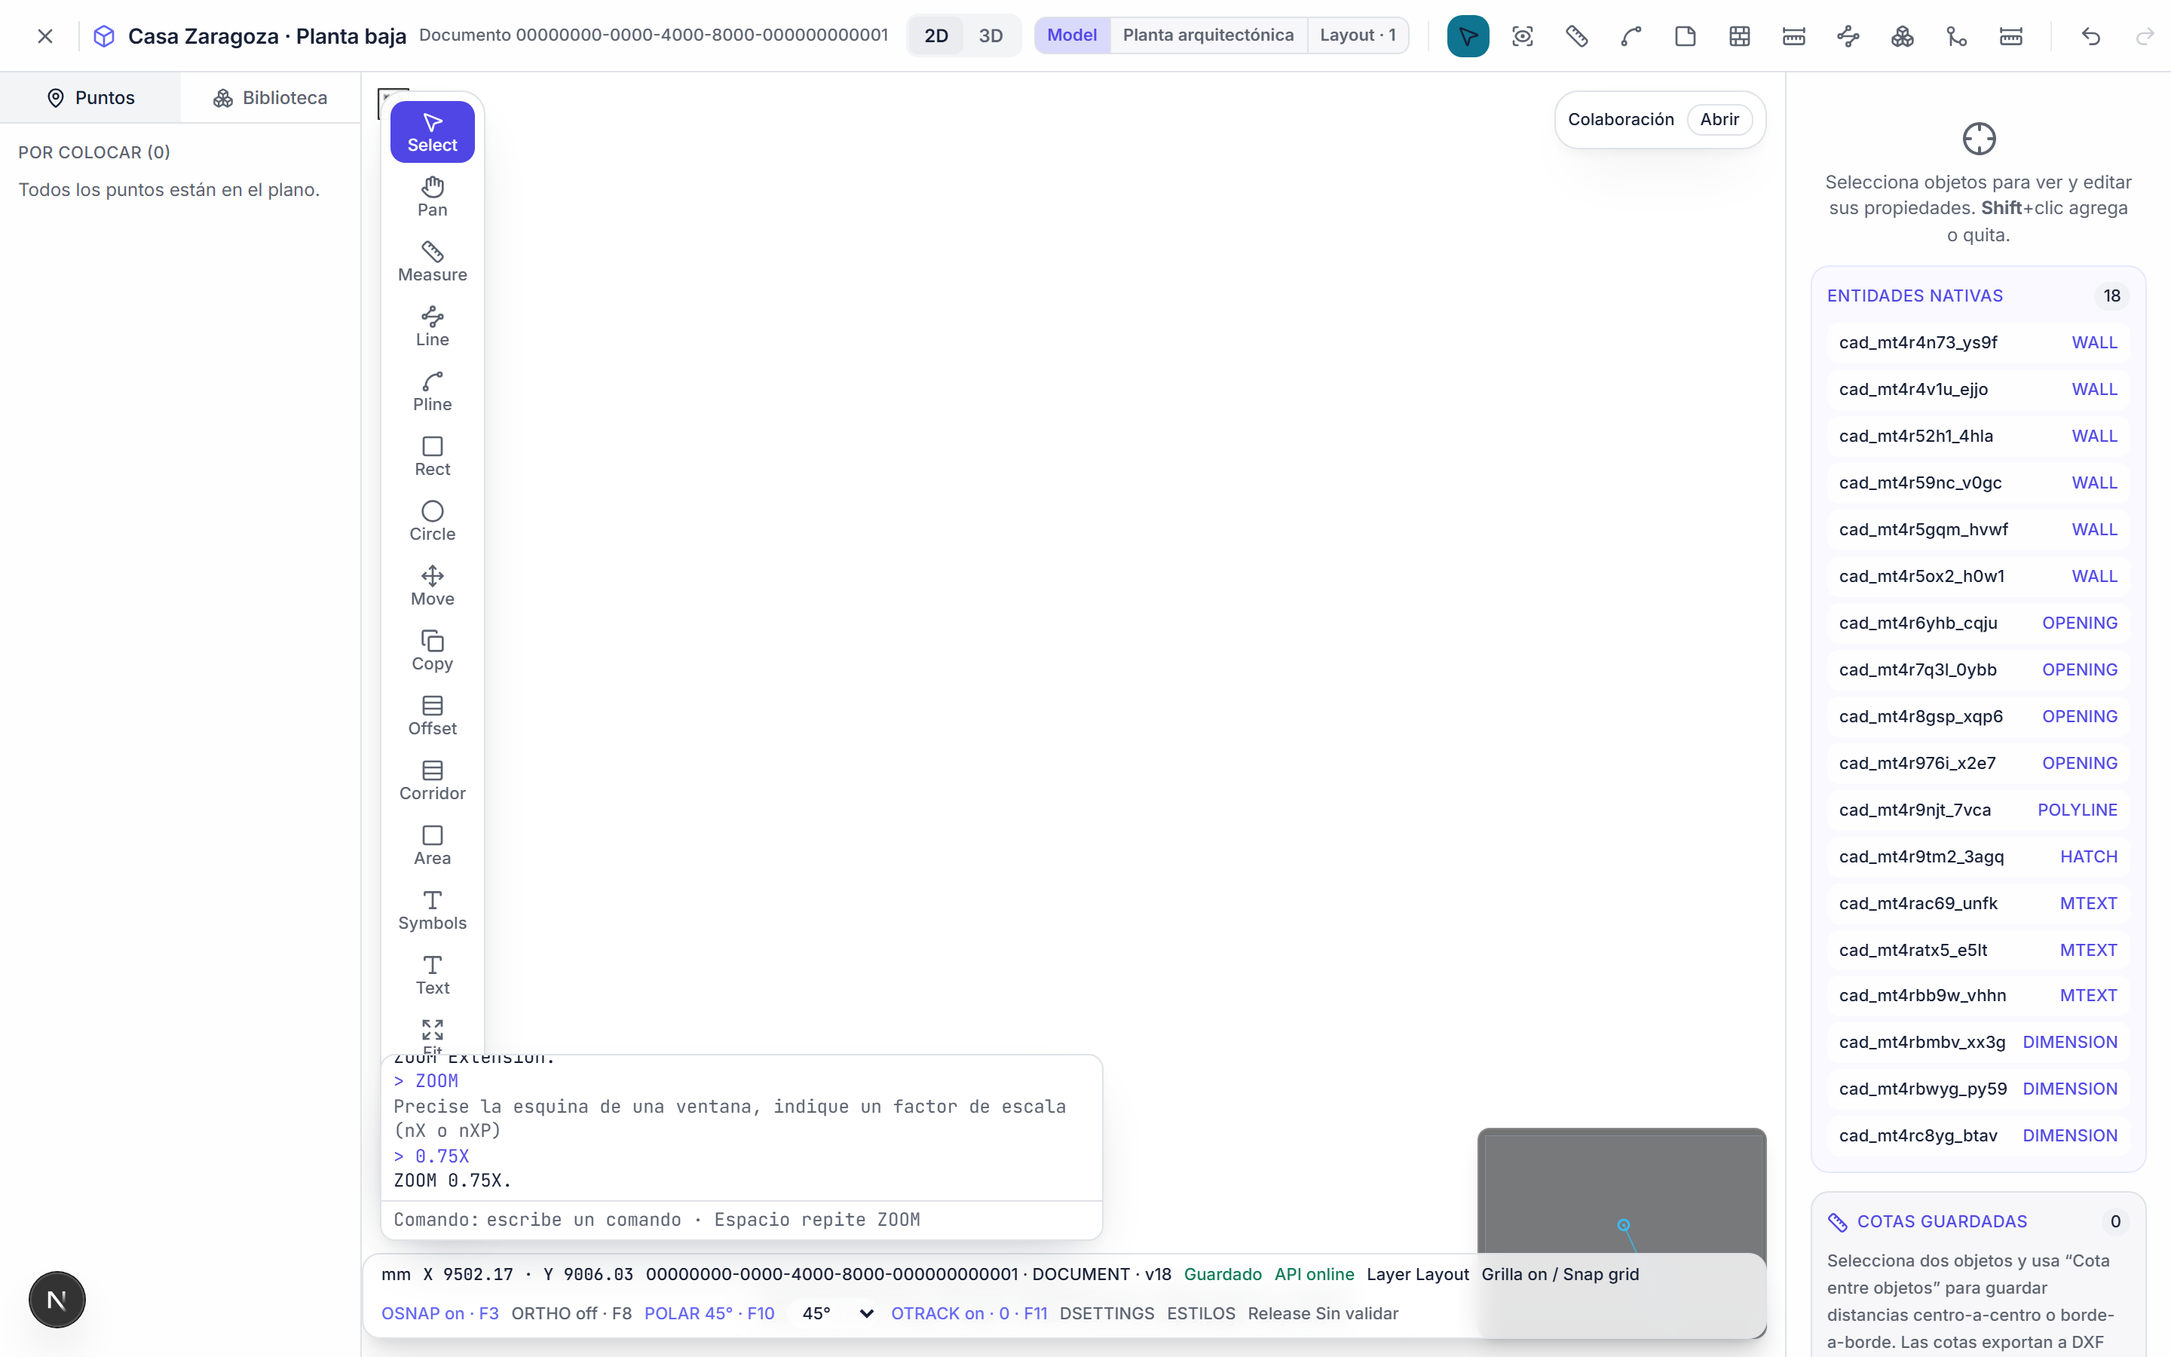
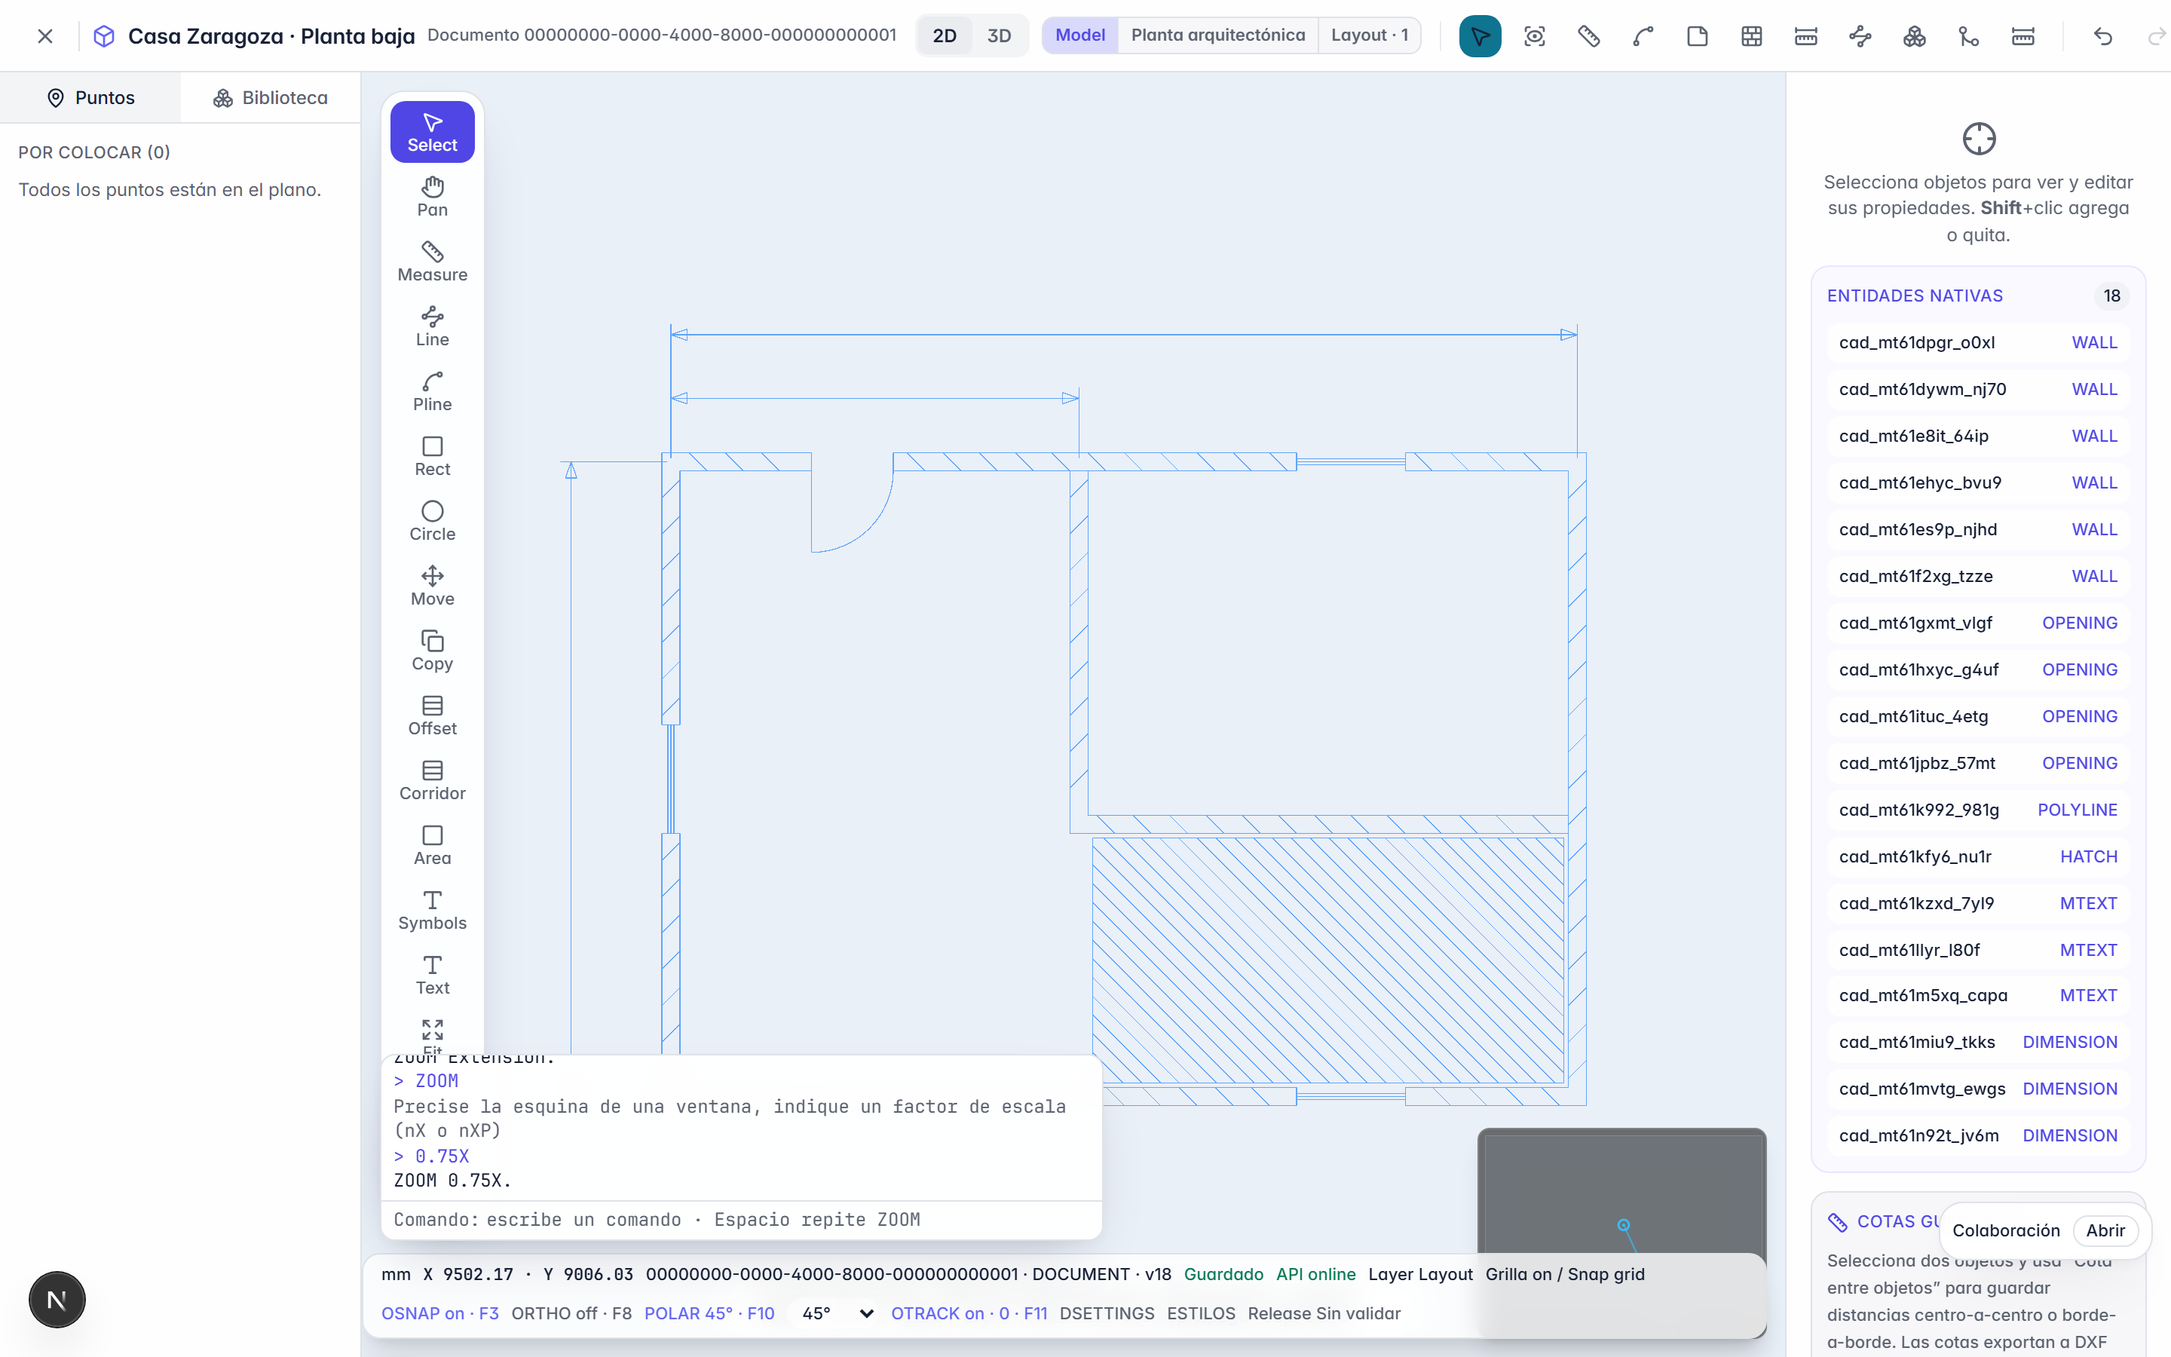
@ La verdad medida: 85 de 87 goldens, el embudo público en verde, y el informe de la campaña de pulido
OLA FINAL. Barrido completo con el árbol quieto (e2e/golden + e2e/public, 180
casos, 1,1 h): 172 verdes, 7 rojos, 1 saltado. Los 7, clasificados uno a uno:

· 46-cad-pointer-engine (×2) y 20-cad-multiple-viewports (firefox) son
  ANTERIORES a esta campaña, confirmado con corrida de control sobre 9835240.
· Los otros cuatro —10:156, 15, 16 y 17— eran RUIDO DE MÁQUINA: tres fallan con
  «Guardando…» en vez de «Guardado», o sea que el guardado no asentó en 15 s en
  una corrida de 1,1 h con dos trabajadores y un servidor de desarrollo encima.
  Reejecutados en aislamiento: 10 de 10 verdes en 3,1 min.

La cifra honesta es 85 de 87 goldens, desde 81/87, y los dos que faltan no son
de esta campaña. e2e/public: 6/6, desde 0/6.

Capturas regeneradas con el cajetín ya sin el campo muerto y el plano de ejemplo
al esquema 10.

F.2: la discrepancia 186/200 vs 191/200 quedó SIN OBJETO, y se dice con
precisión en vez de tacharla: la campaña de cimientos sustituyó la rúbrica
entera y ahora hay dos números con otro denominador (HOY 154/175, DESTINO
189/220). De dónde venía la diferencia sí quedó comprobado: los cinco puntos
estaban enteros en Import/export DWG, 2/8 committeado contra 7/8 calculado.

El informe dice también lo que NO se hizo: la OLA 4 entera (rendimiento) no se
empezó, y 5.1, 5.4, 5.5, 6.1, 6.2, 6.3 y 3.4 quedan abiertas. Y deja los tres
errores propios de la campaña con su medida, porque el método importa más que
el resultado.

diff --git a/docs/execution/INFORME_CAMPANA_PULIDO_20260822.md b/docs/execution/INFORME_CAMPANA_PULIDO_20260822.md
@@ -1,0 +1,211 @@
+# Informe — Campaña autónoma de pulido
+
+**Fecha:** 22–23 de agosto de 2026 · **Base de arranque:** `fc9ba23` ·
+**Bitácora completa:** [`CAMPANA_PULIDO_20260822.md`](CAMPANA_PULIDO_20260822.md)
+
+La cola pedía cerrar la deuda de las tres campañas anteriores «para que no quede
+una sola pieza del producto de la que haya que dar explicaciones al enseñarlo».
+Este informe dice qué se cerró, qué no, y con qué números.
+
+---
+
+## 1. Lo que se cerró
+
+### OLA 0 — la portada dice la verdad
+
+Las seis capturas de `public/product/` se habían tomado horas ANTES de que la
+campaña de identidad purgara el vocabulario del planificador de plantas, y eran
+exactamente las que la portada enseñaba. Se regeneraron, y al mirarlas una por
+una aparecieron cuatro defectos más de los denunciados:
+
+| Captura | Enseñaba | Enseña |
+| --- | --- | --- |
+| `estudio-dark` / `-light` | «AXOS-CAD-STUDIO» de título, herramientas `Aisle`/`Zone`/`Equipment`, el globo de Colaboración encima del panel de propiedades, la línea de comandos pisando la barra de estado, y un dibujo de 4 muros + 2 cotas | «Casa Zaragoza · Planta baja», `Corridor`/`Area`/`Symbols`, nada superpuesto, y una planta de **18 entidades**: 6 muros que resuelven sus esquinas, puerta con barrido, 3 ventanas alojadas, sombreado asociativo, 3 rótulos y 3 cotas |
+| `paleta-propiedades` | la línea de comandos con «La paleta de propiedades no está montada en este espacio de trabajo» **en rojo** | la paleta abierta con Ctrl+1 y una entidad designada |
+| `espacio-papel` | el espacio MODELO con el menú de `LAYOUT` abierto | la lámina A1 de verdad, con muros hachurados, huecos, rótulos, cotas y cajetín |
+
+Y un guardián nuevo lee el texto RENDERIZADO antes de cada disparo: si el
+vocabulario del producto muerto vuelve, no hay foto. Importa la lista del gate
+de identidad en vez de copiarla, así que crece con él.
+
+### OLA 1 — los seis goldens heredados, cerrados
+
+De **81/87 a 85/87**. Cuatro causas, y cuatro defectos de PRODUCTO arreglados —
+ninguno se cerró relajando una aserción:
+
+1. **La capa de comentarios nunca recibió un clic.** `setPlacing` concatenaba
+   `pointer-events-auto` sobre una base que ya llevaba `pointer-events-none`; en
+   el atributo `class` el orden no decide, decide la hoja de Tailwind, y ahí gana
+   `none`. Anclar un comentario sobre el plano **no funcionó jamás**, y ninguna
+   aserción de dominio podía verlo.
+2. **El muelle de colaboración se comía las pestañas de la biblioteca.** El
+   golden 21 llevaba meses en rojo con el mensaje exacto escrito en el log y
+   nadie lo había leído.
+3. **El encabezado de la consola LISP mezclaba dos poblaciones** —rutinas del
+   estudio y comandos totales, con los de fábrica dentro— contradiciendo a su
+   propia lista.
+4. **La holgura de la barra de estado subía la columna entera**, y con ella los
+   botones del acompañante de los primeros cinco minutos, que aterrizaban sobre
+   el plano.
+
+Tres aserciones de esquema se actualizaron contra `CAD_DOCUMENT_SCHEMA` en vez
+de contra un número, con la evidencia de que las subidas fueron deliberadas,
+documentadas y aditivas.
+
+### OLA 2 — el ERP fuera de la suite
+
+`e2e/fixtures/mock-backend.ts` era un ERP/MES completo en miniatura: 30 rutas
+—órdenes de trabajo con takt objetivo, surtido a línea PENDING/STAGED/SHORTAGE,
+reabasto, terminal de operador con andon, no conformidades, inventario—. Era el
+pendiente número uno de la campaña de identidad y sobrevivió a ella porque 61
+specs lo importan.
+
+El cruce salió inequívoco y se puede repetir: **ninguna de las 30 rutas aparece
+en ninguna spec, ni en el código de producto**. Las 61 importan un solo símbolo.
+**739 → 85 líneas.** Lo que quedaba hacía tres cosas: interceptar el origen
+entero, aplicar la comprobación de identidad real, y contestar vacío pero con
+éxito.
+
+### OLA 3 — las cotas dibujan lo que prometen
+
+DIMSTYLE tenía el núcleo de ~30 DIMVARs y le faltaba el último tramo: la ENTIDAD
+no llevaba encima lo que el render necesita leer, así que **el plano salía igual
+con cualquier norma de acotación**. Esquema 10, siete campos opcionales-ausentes:
+DIMTXT, DIMTXSTY, DIMCLRT, DIMCLRD, DIMCLRE, DIMTAD y DIMJUST. Se hornean, llegan
+al render —la altura del rótulo dejó de derivarse de `arrowSize × 0,55`— y viajan
+por DXF con ida y vuelta.
+
+### Defecto grave encontrado de paso: los muros no se imprimían
+
+Fotografiando la lámina para la portada salió que el sombreado, los rótulos y las
+cotas aparecían en la hoja **y la casa no**. `renderEntity()` de `paper-space.ts`
+es una escalera de ramas escrita cuando el documento iba por el esquema 3, y todo
+lo demás caía en un `return []` silencioso. El compilador lo confirma sin lugar a
+dudas: en ese punto el tipo estrechado era `CadSchema4Entity | CadSchema5Entity |
+CadWallEntity | CadOpeningEntity` — **doce tipos**, incluidas las dos entidades
+BIM que son la bandera del producto, desaparecían del PDF sin una advertencia.
+
+### El cajetín y el embudo en el teléfono
+
+- «Flujo total» imprimía «---» en cada lámina publicada: `flowLen` no tenía un
+  solo productor. Fuera. Los contadores del planificador de plantas se emiten
+  sólo cuando tienen algo que contar.
+- **No había forma de iniciar sesión desde un teléfono sin abrir la hamburguesa.**
+- **La portada se desplazaba en horizontal en móvil**: `scrollWidth` 560 contra
+  390. Una sola causa: el halo del marco del producto, `absolute -inset-8`, que
+  nadie recortaba. Anterior a esta campaña.
+
+---
+
+## 2. Lo que NO se hizo, y por qué
+
+| Ítem | Estado |
+| --- | --- |
+| **OLA 4 — rendimiento** (`architecture@100k` en 25,3 s contra meta de 15 s) | **NO EMPEZADA.** Es trabajo de pipeline de render con medición en GPU real, y la campaña se quedó sin margen tras absorber los defectos que fueron apareciendo. Ninguna línea tocada, ninguna cifra movida. |
+| **OLA 5.1** — migrar controles a primitivas, bajar los 27 `shadow-2xl` | no hecha |
+| **OLA 5.4** — barrido de nombres internos (`station`, `asset`, `flow`) | no hecha |
+| **OLA 5.5** — modo presentación | no hecha |
+| **OLA 6.1** — golden visual del embudo público | no hecha |
+| **OLA 6.2** — gate de contraste automático | no hecha |
+| **OLA 6.3** — gate de tono de voz | no hecha |
+| **OLA 3.4** — `MLEADERSTYLE`/`TABLESTYLE` por DXF | no hecha |
+| **F.3** — recorrido de cliente de punta a punta | **no hecho como paseo manual.** Lo que sí se hizo, y encontró más: correr los barridos que nadie corría. |
+
+**OLA 5.2** (imports muertos) y **R.7** (documentar `check:dwg-evidence`) sí
+están cerradas: la primera en la OLA 0, la segunda ya la había hecho la campaña
+de cimientos.
+
+---
+
+## 3. Los errores propios, medidos
+
+Esta campaña introdujo tres regresiones y las tres se cazaron midiendo, no
+razonando. Van aquí porque el método importa más que el resultado:
+
+1. **Anclar el muelle de colaboración al lienzo** (OLA 0) arregló que tapara el
+   panel de propiedades y rompió algo peor: se comía los clics del DIBUJO. Seis
+   specs sin relación con la colaboración, quince mensajes nombrando
+   `cad-collab-toggle`. Era la lección que el autor original había dejado escrita
+   en ese mismo archivo.
+2. **Reservar sitio en el panel derecho** (segundo intento) empujó la columna
+   99 px hacia abajo y sacó de la vista las filas que el golden 39 edita.
+   Confirmado con corrida de control sobre `9835240`: 3 fallos allí, 9 en mi
+   árbol.
+3. **Subir el envoltorio de la línea de comandos** subía también el acompañante
+   de los primeros cinco minutos y la consola LISP, cuyos botones acababan sobre
+   el plano. Aislado neutralizando el hook: 14 de 14 en verde.
+
+La salida buena no era elegir a quién tapar: era no tapar. El muelle vive ahora
+en la esquina inferior derecha, con spec que deja escrito por qué no vuelve a
+ninguno de los dos sitios anteriores.
+
+---
+
+## 4. Cifras antes y después
+
+| Métrica | Antes | Después |
+| --- | --- | --- |
+| Goldens Playwright | 81/87 | **85/87** |
+| `e2e/public` | 0/6 (sin correr desde el rediseño) | **6/6** |
+| Specs unitarios (web) | 381/381 | **387/387** |
+| Fixture ERP en la suite | 739 líneas | **85** |
+| Tipos de entidad que llegan al PDF | 15 de 27 | **27 de 27** |
+| Entidades del plano de la portada | 6 | **18** |
+| Esquema del documento | 9 | **10** |
+| Desbordamiento horizontal en móvil | 560 px contra 390 | **390 = 390** |
+| Trinquete de lint | 549 (techo) | 545 |
+| `Layout3DEditor.tsx` | 20.248 líneas | **20.245** |
+
+Los dos goldens que siguen rojos —`46-cad-pointer-engine` en los dos navegadores
+y `20-cad-multiple-viewports` en firefox— son ANTERIORES a esta campaña,
+confirmado con corrida de control sobre `9835240`. El 46 lo bisecó la sesión
+paralela: frágil ante el autohospedaje de fuentes, no es defecto de producto.
+
+**Y una advertencia sobre cómo se leen estos números.** El barrido final marcó
+7 rojos, no 2. Los otros cuatro —10:156, 15, 16 y 17— eran **ruido de máquina**:
+tres fallan con «Guardando…» en vez de «Guardado», es decir, el guardado no
+asentó en 15 segundos durante una corrida de 1,1 h con dos trabajadores y un
+servidor de desarrollo encima. Reejecutados en aislamiento: **10 de 10 verdes en
+3,1 min**. Un barrido largo en un portátil no distingue una regresión de una
+espera corta, y la forma de leerlo es reejecutar antes de acusar.
+
+---
+
+## 5. Nota de método que conviene no perder
+
+**Los barridos anteriores corrían sólo `e2e/golden`.** `e2e/public` llevaba sin
+medirse desde que se rediseñó la navegación, y escondía tres defectos —uno de
+ellos, que la portada se desplaza en un teléfono— que ninguna otra prueba podía
+ver. La campaña de cimientos, además, cerró sin correr el barrido de goldens y lo
+delegó por escrito: sus 13 commits nunca se habían medido contra la suite e2e
+hasta esta campaña.
+
+Un gate que no se corre no es un gate.
+
+---
+
+## 6. Los diez siguientes pasos
+
+1. **OLA 4 entera**: `architecture@100k` tarda 25,3 s contra meta de 15 s, y
+   panea a 8,6 fps. El perfil por etapas ya señala teselado y subida de
+   geometría.
+2. **El texto no se pinta en el LIENZO.** Rótulos MTEXT y etiquetas de cota se
+   crean, se guardan y se imprimen en la lámina, pero no aparecen sobre el
+   dibujo. Una cota sin número no es una cota. Sin diagnosticar.
+3. **Alojar una puerta pierde el encuadre de la cámara.** Probable
+   reconstrucción de la escena al cambiar la identidad de `data` en el guardado
+   automático (`Layout3DEditor.tsx:6052` depende de `[open, data]`).
+4. **`LAYER` y `PROPERTIES` no abren su paleta desde la línea de comandos**: dos
+   de los comandos más tecleados de AutoCAD contestan «no está montado en este
+   espacio de trabajo».
+5. **Los DIMVARs que faltan**: grosores (DIMLWD/DIMLWE), DIMTIH/DIMTOH y los
+   bloques de flecha estándar siguen sin gobernar el render.
+6. **OLA 6.1/6.2/6.3**: golden visual del embudo, gate de contraste automático
+   y gate de tono de voz. Sin ellos, una regresión estética es invisible.
+7. **La capa activa de fábrica** ya no es `equipment`, pero sigue siendo
+   `layout` y no la que la plantilla considera suya.
+8. **OLA 5.1 y 5.5**: primitivas y elevaciones en el monolito, y modo
+   presentación.
+9. **Correr `e2e/public` y `e2e/real` en cada barrido**, no sólo `e2e/golden`.
+10. **Configurar `VALLE_DWG_CORPUS_MIRROR`** en esta máquina, o `check:cad` seguirá
+    siendo rojo por entorno y la evidencia DWG committeada, sin vigilancia.

diff --git a/docs/execution/CAMPANA_PULIDO_20260822.md b/docs/execution/CAMPANA_PULIDO_20260822.md
@@ -552,3 +552,48 @@ miraban sólo `e2e/golden`**. Al correrlo aparecieron tres cosas:
    mínimo.
 
 `e2e/public`: **6/6 verdes**, desde 0/6.
+
+---
+
+## OLA FINAL — la verdad medida
+
+**F.1 Barrido completo con el árbol quieto** (`e2e/golden` + `e2e/public`,
+180 casos, 1,1 h): **172 verdes, 7 rojos, 1 saltado.**
+
+Los 7 rojos, clasificados uno a uno:
+
+| Rojo | Veredicto |
+| --- | --- |
+| `46-cad-pointer-engine:177` (×2) | **ANTERIOR.** La sesión paralela lo bisecó: frágil ante el autohospedaje de fuentes, no es defecto de producto |
+| `20-cad-multiple-viewports:47` (firefox) | **ANTERIOR**, confirmado con corrida de control sobre `9835240` |
+| `10-cad-native-entities:156`, `15-cad-native-mtext`, `16-cad-associative-dimensions`, `17-cad-native-mleader` (chromium) | **CONTENCIÓN.** Los tres últimos fallan con «Guardando…» en vez de «Guardado»: el guardado no asentó en 15 s durante un barrido de 1,1 h con dos trabajadores. Reejecutados en aislamiento: **10 de 10 verdes en 3,1 min** |
+
+**La cifra honesta: 85 de 87 goldens**, y los dos que faltan son anteriores a
+esta campaña. `e2e/public`, **6/6**, desde 0/6.
+
+Y una advertencia que vale más que la cifra: **cuatro rojos de esa corrida eran
+ruido de máquina.** Un barrido de una hora en un portátil con un servidor de
+desarrollo encima no distingue una regresión de una espera corta. La forma de
+leerlo es la que usó esta campaña: reejecutar en aislamiento antes de acusar.
+
+**F.2 Evidencia regenerada.** Capturas (las seis, ya con el cajetín sin el campo
+muerto), `plot-fidelity` (error de escala 2,8e-14 mm), manifiestos del corpus de
+benchmark y la cadena de procedencia del SHA extendida a su cuarto eslabón.
+
+**La discrepancia 186/200 vs 191/200 quedó SIN OBJETO**, y conviene decirlo con
+precisión en vez de tacharla: la campaña de cimientos **sustituyó la rúbrica
+entera**. Ya no hay un número, hay dos y con otro denominador — HOY 154/175
+(88 %) y DESTINO 189/220 (85,9 %), rúbrica `2026-08-22.1`. Los dos números
+viejos pertenecen a la rúbrica `2026-08-20.1`, que ya no existe. De dónde venía
+la diferencia sí quedó comprobado: los cinco puntos estaban enteros en
+Import/export DWG (2/8 committeado contra 7/8 calculado), y la matriz llevaba
+desde la campaña DWG del 21-08 sin regenerarse.
+
+**F.3.** El recorrido de cliente NO se hizo como paseo manual. Lo que sí se hizo
+—y encontró más de lo que habría encontrado un paseo— fue correr los barridos
+que nadie corría: `e2e/public` llevaba sin medirse desde el rediseño de la
+navegación y escondía que **la portada se desplaza en horizontal en un teléfono**
+y que **no había forma de iniciar sesión desde el móvil sin abrir la
+hamburguesa**. Los dos están arreglados y medidos.
+
+**F.4** → [`INFORME_CAMPANA_PULIDO_20260822.md`](INFORME_CAMPANA_PULIDO_20260822.md).
